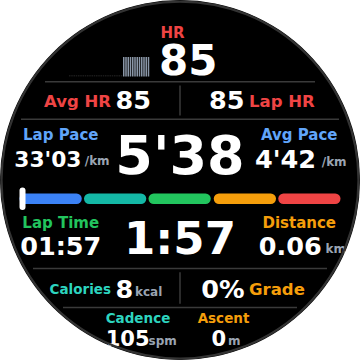
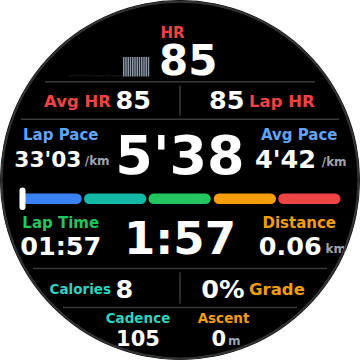
No units on cadence, calories and speed
Units of three or more characters (spm, kcal, km/h, mph) are dropped
like bpm was: the label already says what the number is, and the unit
cost digit size. The pace suffix /km or /mi stays. A test pins the
allowed set: km/mi, m/ft, W, /km, /mi.

Claude-Session: https://claude.ai/code/session_0159iiBDDw2eyavFQfqH1Uvg

Changed region(s): [[0.3056, 0.9167, 0.4889, 0.9778], [0.3667, 0.7944, 0.4583, 0.825]]

diff --git a/shared/fields.js b/shared/fields.js
@@ -89,7 +89,9 @@ const avgSpeed = (ctx) =>
   ctx.s.avg_speed != null ? ctx.s.avg_speed : ctx.stats.avgSpeed()
 const pad2 = (n) => (n < 10 ? `0${n}` : `${n}`)
 const imperial = (c) => c.unit === "min_per_mile"
-// units follow the pace-unit setting (km or mile world)
+// Units follow the pace-unit setting (km or mile world). Only short units
+// are shown (km/mi, m/ft, W) plus the pace suffix /km or /mi; longer ones
+// (bpm, spm, kcal, km/h) cost more digit size than they add.
 const PACE = (c) => (imperial(c) ? "/mi" : "/km")
 const DIST = (c) => (imperial(c) ? "mi" : "km")
 const ALT = (c) => (imperial(c) ? "ft" : "m")
@@ -194,7 +196,6 @@ export const FIELDS = {
     },
   },
   speed: {
-    unit: (c) => (c.unit === "min_per_mile" ? "mph" : "km/h"),
     short: "Spd",
     icon: "gauge",
     qual: "Spd",
@@ -314,7 +315,6 @@ export const FIELDS = {
     value: (c) => ascentStr(c.s.altitude, c.unit),
   },
   cadence: {
-    unit: "spm",
     short: "Cad",
     icon: "feet",
     qual: "",
@@ -323,7 +323,6 @@ export const FIELDS = {
     value: (c) => intStr(c.s.cadence),
   },
   avg_cadence: {
-    unit: "spm",
     short: "AvgC",
     icon: "feet",
     qual: "Avg",
@@ -333,7 +332,6 @@ export const FIELDS = {
     value: (c) => intStr(c.s.avg_cadence),
   },
   calories: {
-    unit: "kcal",
     short: "Cal",
     icon: "flame",
     qual: "",

diff --git a/setting/index.js b/setting/index.js
@@ -288,7 +288,7 @@ AppSettingsPage({
         (v) => saveLayout({ ...layout, units: v }),
       ),
       hint(
-        "Small km, W, m after the numbers. Heart rate and the big center numbers stay unit-free.",
+        "Small km, m, W and /km after the numbers. Heart rate, cadence, calories, speed and the big center numbers stay unit-free.",
       ),
       label("Zone bar (middle)"),
       chips(

diff --git a/README.md b/README.md
@@ -54,7 +54,7 @@ value itself, in its own units) over the slot and adds its own label. GAP, verti
 oscillation and ground contact time are not exposed by Zepp OS at all, so they can't be
 shown.
 
-**Units** (km/mi, /km, m/ft, W, spm, kcal, km/h/mph) are drawn small after the
+**Units** (km/mi, m/ft, W and the pace suffix /km or /mi) are drawn small after the
 value, placed from the watch's own text measurement (`getTextLayout`, with a width
 estimate as fallback) so the pair never overlaps; value and unit shrink together to fit.
 The big center numbers of three-column rows and the single top HR (which shows its zone)

diff --git a/CHANGELOG.md b/CHANGELOG.md
@@ -2,7 +2,7 @@
 
 ## 0.2.0 — customizable screen
 
-- Units after values (km/mi, /km, m/ft, W, spm, kcal, km/h; none on heart rate), following the pace
+- Units after values (km/mi, /km or /mi, m/ft, W; none on heart rate, cadence, calories or speed), following the pace
   unit; not on the big center numbers; can be hidden (phone and watch).
 
 - Full privacy statement (PRIVACY.md), published at
